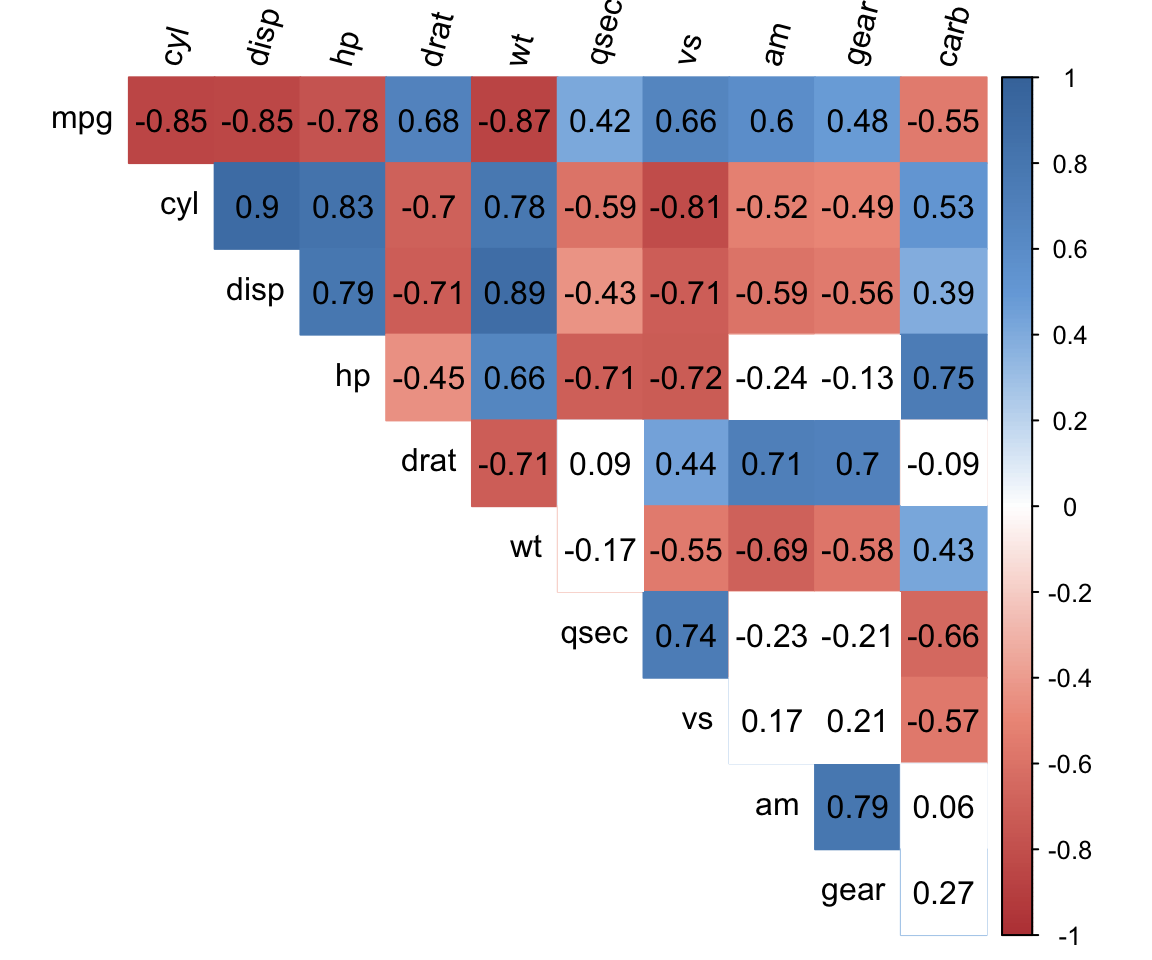
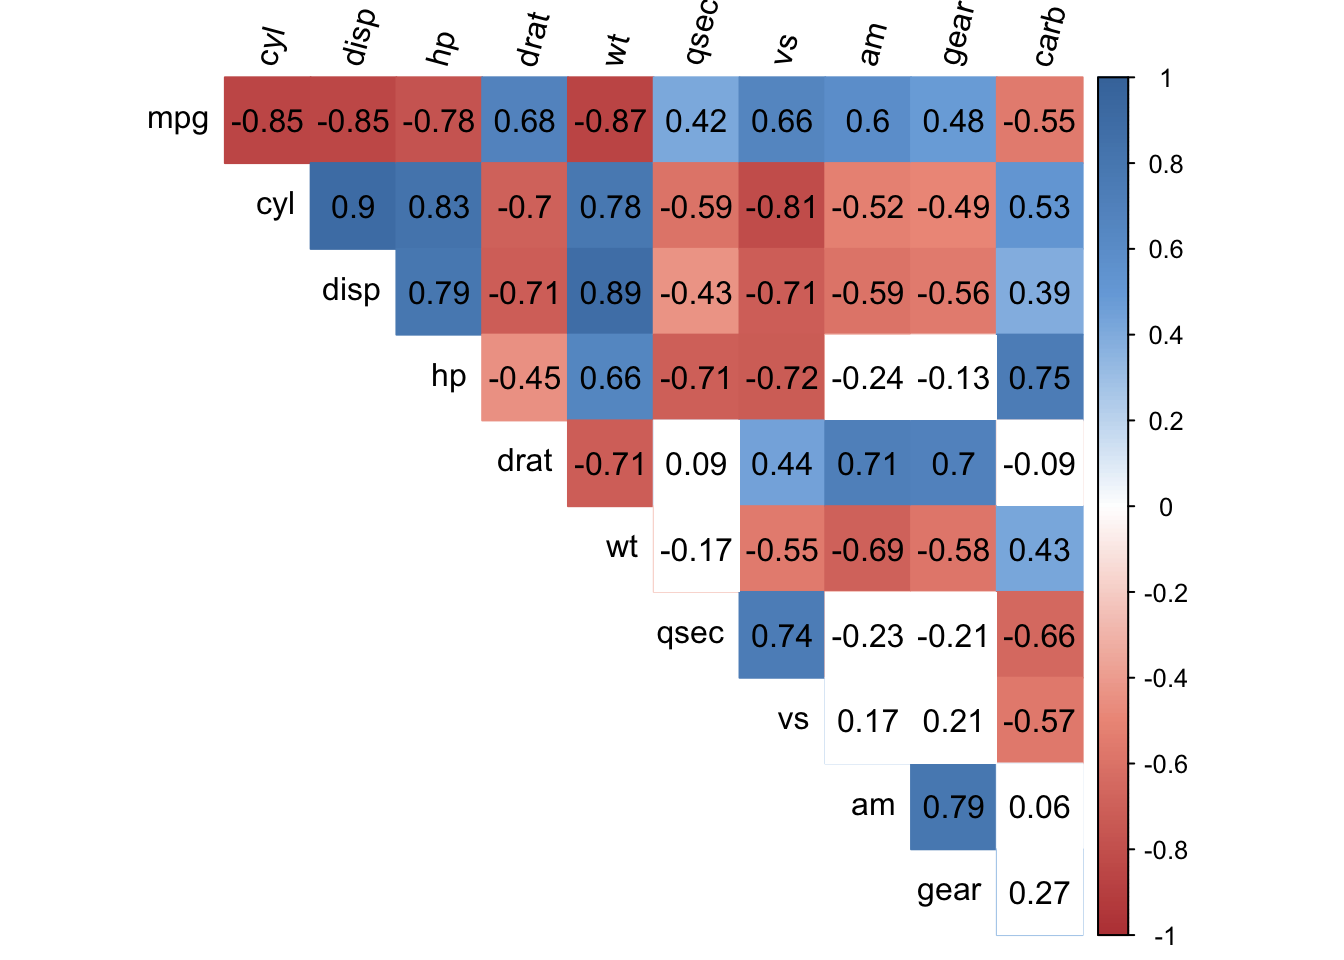
edit post

diff --git a/public/blog/correlogram-in-r-how-to-highlight-the-most-correlated-variables-in-a-dataset/index.html b/public/blog/correlogram-in-r-how-to-highlight-the-most-correlated-variables-in-a-dataset/index.html
@@ -174,7 +174,7 @@ round(cor(mtcars), 2)</code></pre>
 <p>Even after rounding the correlation coefficients to 2 digits, you will conceive that this correlation matrix is not easily and quickly interpretable.</p>
 <p>If you are using <a href="/blog/getting-started-in-r-markdown">R Markdown</a>, you can use the <code>pander()</code> function to make it slightly more readable, but still, we must admit that this table is not optimal when it comes to visualizing correlations between several variables of a dataset, especially for large datasets.</p>
 <p>To tackle this issue and make it much more insightful, let’s transform the correlation matrix into a correlation plot. A correlation plot, also referred as a correlogram, allows to highlight the variables that are most (positively and negatively) correlated. Below an example with the same dataset presented above:</p>
-<p><img src="/blog/correlogram-in-r-how-to-highlight-correlations-between-variables_files/figure-html/unnamed-chunk-2-1.png" width="576" /></p>
+<p><img src="/blog/correlogram-in-r-how-to-highlight-correlations-between-variables_files/figure-html/unnamed-chunk-2-1.png" width="672" /></p>
 <p>The correlogram represents the correlations for all pairs of variables. Positive correlations are displayed in blue and negative correlations in red. The intensity of the color is proportional to the correlation coefficient so the stronger the correlation, the darker the boxes. The color legend on the right hand side of the correlogram shows the correlation coefficients and the corresponding colors.</p>
 <p>As a reminder, a negative correlation implies that the two variables under consideration vary in opposite directions, that is, if one variable increases the other decreases and vice versa. A positive correlation implies that the two variables under consideration vary in the same direction, that is, if one variable increases the other increases and if one variable decreases the other decreases as well.</p>
 <p>Finally, the white boxes indicate that the correlation is not significantly different from 0 at the specified significance level (in this example, at <span class="math inline">\(\alpha = 5\)</span>%), which means that there is no <strong>linear</strong> relationship between the two variables considered.<a href="#fn2" class="footnote-ref" id="fnref2"><sup>2</sup></a></p>

diff --git a/content/blog/correlogram-in-r-how-to-highlight-correlations-between-variables.html b/content/blog/correlogram-in-r-how-to-highlight-correlations-between-variables.html
@@ -42,7 +42,7 @@ round(cor(mtcars), 2)</code></pre>
 <p>Even after rounding the correlation coefficients to 2 digits, you will conceive that this correlation matrix is not easily and quickly interpretable.</p>
 <p>If you are using <a href="/blog/getting-started-in-r-markdown">R Markdown</a>, you can use the <code>pander()</code> function to make it slightly more readable, but still, we must admit that this table is not optimal when it comes to visualizing correlations between several variables of a dataset, especially for large datasets.</p>
 <p>To tackle this issue and make it much more insightful, let’s transform the correlation matrix into a correlation plot. A correlation plot, also referred as a correlogram, allows to highlight the variables that are most (positively and negatively) correlated. Below an example with the same dataset presented above:</p>
-<p><img src="/blog/correlogram-in-r-how-to-highlight-correlations-between-variables_files/figure-html/unnamed-chunk-2-1.png" width="576" /></p>
+<p><img src="/blog/correlogram-in-r-how-to-highlight-correlations-between-variables_files/figure-html/unnamed-chunk-2-1.png" width="672" /></p>
 <p>The correlogram represents the correlations for all pairs of variables. Positive correlations are displayed in blue and negative correlations in red. The intensity of the color is proportional to the correlation coefficient so the stronger the correlation, the darker the boxes. The color legend on the right hand side of the correlogram shows the correlation coefficients and the corresponding colors.</p>
 <p>As a reminder, a negative correlation implies that the two variables under consideration vary in opposite directions, that is, if one variable increases the other decreases and vice versa. A positive correlation implies that the two variables under consideration vary in the same direction, that is, if one variable increases the other increases and if one variable decreases the other decreases as well.</p>
 <p>Finally, the white boxes indicate that the correlation is not significantly different from 0 at the specified significance level (in this example, at <span class="math inline">\(\alpha = 5\)</span>%), which means that there is no <strong>linear</strong> relationship between the two variables considered.<a href="#fn2" class="footnote-ref" id="fnref2"><sup>2</sup></a></p>
